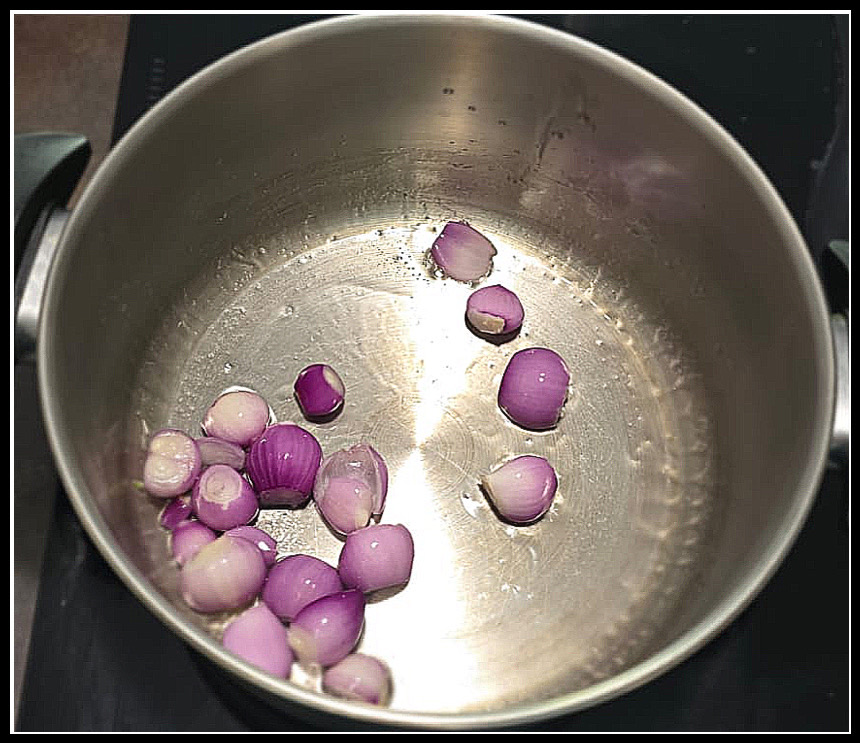
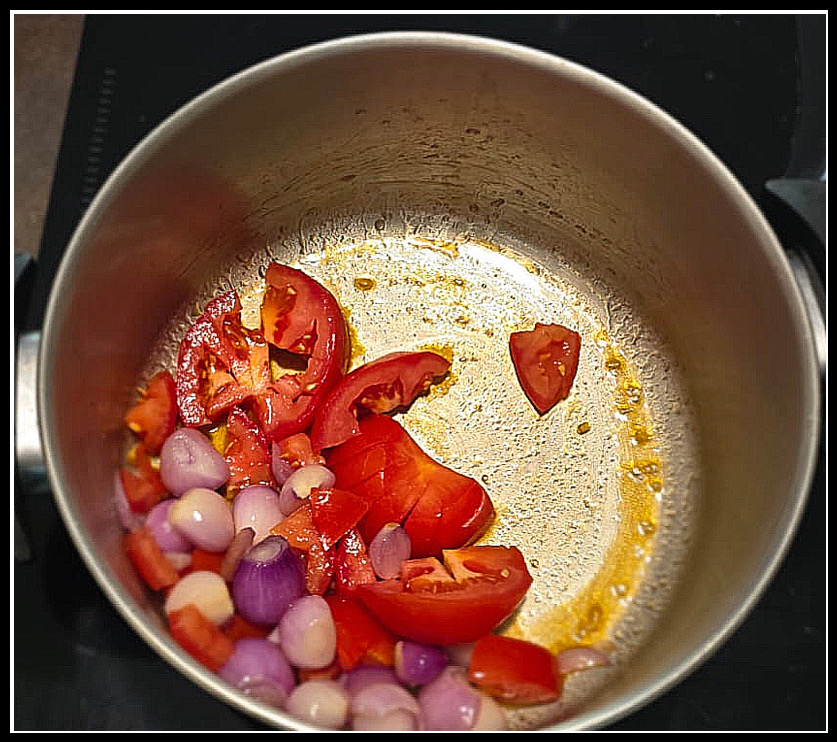
Add extra

diff --git a/masala-tulips-react/src/data/recipes.ts b/masala-tulips-react/src/data/recipes.ts
@@ -647,102 +647,80 @@ export const recipes: Record<string, Recipe> = {
     tags: ['sambhar', 'lentils', 'vegetables', 'south-indian', 'vegetarian', 'dal'],
     ingredients: [
       '1 cup toor dal',
-      '2 cups mixed vegetables (carrots, beans, peas, potatoes, eggplant)',
-      '1 large onion, finely chopped',
-      '2 tomatoes, chopped',
+      '2 cups mixed vegetables (drumsticks, carrots, turnips, tomatoes, bottle gourd, potatoes, chow chow)',
+      '1 sambhar onion, finely chopped',
       '1/4 cup tamarind pulp',
       '2 tablespoons oil',
       '1 teaspoon mustard seeds',
       '1 teaspoon cumin seeds',
       '1/2 teaspoon turmeric powder',
-      '1 teaspoon red chili powder',
       '1 teaspoon sambhar powder',
       '10-12 curry leaves',
-      '2-3 green chilies, slit',
-      '1 inch ginger, grated',
-      '4-5 garlic cloves, minced',
+      '4-5 garlic cloves',
       '1/4 cup fresh coriander leaves',
       'Salt to taste',
-      '3 cups water'
+      '3 cups water',
+      'Pinch of asafoetida'
     ],
     instructions: [
       {
         step: 1,
         title: 'Prepare the Ingredients',
-        description: 'Wash toor dal thoroughly. Chop all vegetables - carrots, beans, peas, potatoes, and eggplant. Finely chop onions and tomatoes. Prepare tamarind pulp by soaking tamarind in warm water.',
-        images: ['/images/recipes/veg-sambhar/img1.jpeg']
+        description: 'Wash toor dal thoroughly. Chop all vegetables - drumsticks, carrots, turnips, tomatoes, bottle gourd, potatoes, and chow chow. Finely chop sambhar onion. Prepare tamarind pulp by soaking tamarind in warm water.',
+        images: ['/images/recipes/veg-sambhar/img1.jpeg', '/images/recipes/veg-sambhar/img2.jpeg', '/images/recipes/veg-sambhar/img4.jpeg']
       },
       {
         step: 2,
         title: 'Cook the Dal',
-        description: 'In a pressure cooker, add toor dal and 2 cups of water. Cook for 3-4 whistles until the dal is soft and well-cooked. Mash the dal slightly and set aside.',
-        images: ['/images/recipes/veg-sambhar/img2.jpeg']
+        description: 'In a pressure cooker, add toor dal, oil and 2 cups of water. Add turmeric powder and garlic cloves. Cook for 3-4 whistles until the dal is soft and well-cooked. Mash the dal slightly and set aside.',
+        images: ['/images/recipes/veg-sambhar/img5.jpeg', '/images/recipes/veg-sambhar/img6.jpeg']
       },
       {
         step: 3,
-        title: 'Prepare the Tempering',
-        description: 'Heat oil in a large pan. Add mustard seeds and cumin seeds. Let them splutter, then add curry leaves, green chilies, ginger, and garlic. Sauté until fragrant.',
-        images: ['/images/recipes/veg-sambhar/img3.jpeg']
-      },
-      {
-        step: 4,
-        title: 'Add Onions and Tomatoes',
-        description: 'Add chopped onions and sauté until translucent. Add chopped tomatoes and cook until they become soft and mushy.',
-        images: ['/images/recipes/veg-sambhar/img4.jpeg']
-      },
-      {
-        step: 5,
-        title: 'Add Vegetables and Spices',
-        description: 'Add all the mixed vegetables and cook for 3-4 minutes. Add turmeric powder, red chili powder, and sambhar powder. Mix well.',
-        images: ['/images/recipes/veg-sambhar/img5.jpeg']
-      },
-      {
-        step: 6,
-        title: 'Add Water and Cook Vegetables',
-        description: 'Add 1 cup of water and bring to a boil. Cook the vegetables until they are tender but not mushy.',
-        images: ['/images/recipes/veg-sambhar/img6.jpeg']
-      },
-      {
-        step: 7,
-        title: 'Add Cooked Dal',
-        description: 'Add the cooked and mashed toor dal to the vegetable mixture. Mix well and cook for 2-3 minutes.',
+        title: 'Fry Sambhar Onion',
+        description: 'Add sambhar onion to the oil and fry until it is soft and translucent.',
         images: ['/images/recipes/veg-sambhar/img7.jpeg']
       },
       {
+        step: 4,
+        title: 'Add Water and Cook Vegetables',
+        description: 'Add 1 cup of water and bring to a boil. Cook the vegetables until they are tender but not mushy.',
+        images: ['/images/recipes/veg-sambhar/img8.jpeg', '/images/recipes/veg-sambhar/img9.jpeg']
+      },
+      {
+        step: 5,
+        title: 'Mix the Vegetables with Dal',
+        description: 'Add the cooked and mashed toor dal to the vegetable mixture. Add tamarind pulp, salt, sambhar powder and mix well.',
+        images: ['/images/recipes/veg-sambhar/img10.jpeg']
+      },
+      {
+        step: 6,
+        title: 'Prepare the Tempering',
+        description: 'Heat oil in a large pan. Add mustard seeds and cumin seeds. Let them splutter, then add curry leaves, asafoetida. Sauté until fragrant.',
+        images: ['/images/recipes/veg-sambhar/img3.jpeg']
+      },
+      {
+        step: 7,
+        title: 'Mix Tempering with Sambhar',
+        description: 'Add the tempering to the sambhar and mix well. Boil for 5-7 minutes until all flavors are well combined.',
+      },
+      {
         step: 8,
-        title: 'Add Tamarind Pulp',
-        description: 'Add tamarind pulp and salt. Mix well and bring to a boil. Cook for 5-7 minutes until all flavors are well combined.',
-        images: ['/images/recipes/veg-sambhar/img8.jpeg']
-      },
-      {
-        step: 9,
-        title: 'Prepare Final Tempering',
-        description: 'In a small pan, heat a little oil. Add mustard seeds, cumin seeds, and curry leaves. Let them splutter and pour this tempering over the sambhar.',
-        images: ['/images/recipes/veg-sambhar/img9.jpeg']
-      },
-      {
-        step: 10,
         title: 'Add Fresh Herbs',
         description: 'Add fresh coriander leaves and mix gently. Let the sambhar simmer for 2-3 minutes to enhance the flavors.',
         images: ['/images/recipes/veg-sambhar/img10.jpeg']
       },
       {
-        step: 11,
+        step: 9,
         title: 'Check Consistency',
         description: 'The sambhar should have a medium consistency - not too thick or too thin. Add more water if needed and adjust salt to taste.',
         images: ['/images/recipes/veg-sambhar/img11.jpeg']
       },
       {
-        step: 12,
-        title: 'Final Garnish',
-        description: 'Garnish with additional fresh coriander leaves. The sambhar should have a perfect balance of tangy, spicy, and savory flavors.',
-        images: ['/images/recipes/veg-sambhar/img12.jpeg']
-      },
-      {
-        step: 13,
+        step: 10,
         title: 'Serve Hot',
         description: 'Serve hot with steamed rice, idli, dosa, or any South Indian bread. The sambhar should be piping hot and full of flavor.',
-        images: ['/images/recipes/veg-sambhar/img13.jpeg']
+        images: ['/images/recipes/veg-sambhar/img12.jpeg']
       }
     ],
     notes: [
@@ -751,10 +729,11 @@ export const recipes: Record<string, Recipe> = {
         content: [
           'Use fresh vegetables for the best taste and texture.',
           'Adjust the amount of tamarind based on your preference for tanginess.',
-          'You can add more vegetables like drumsticks, okra, or pumpkin for variety.',
+          'You can add more vegetables like okra or pumpkin for variety.',
           'The sambhar should have a medium consistency - not too thick or too thin.',
           'Let it rest for 5 minutes after cooking for better flavor development.',
-          'Use homemade sambhar powder for authentic taste.'
+          'Use homemade sambhar powder for authentic taste.',
+          'Sambhar onion gives a unique flavor compared to regular onions.'
         ]
       },
       {
@@ -765,7 +744,7 @@ export const recipes: Record<string, Recipe> = {
           'Try with different types of lentils like moong dal or masoor dal.',
           'Add a dollop of ghee on top before serving for enhanced flavor.',
           'Serve with coconut chutney or tomato chutney for a complete meal.',
-          'Add drumsticks for a traditional touch.'
+          'Use different combinations of vegetables based on seasonal availability.'
         ]
       }
     ]
